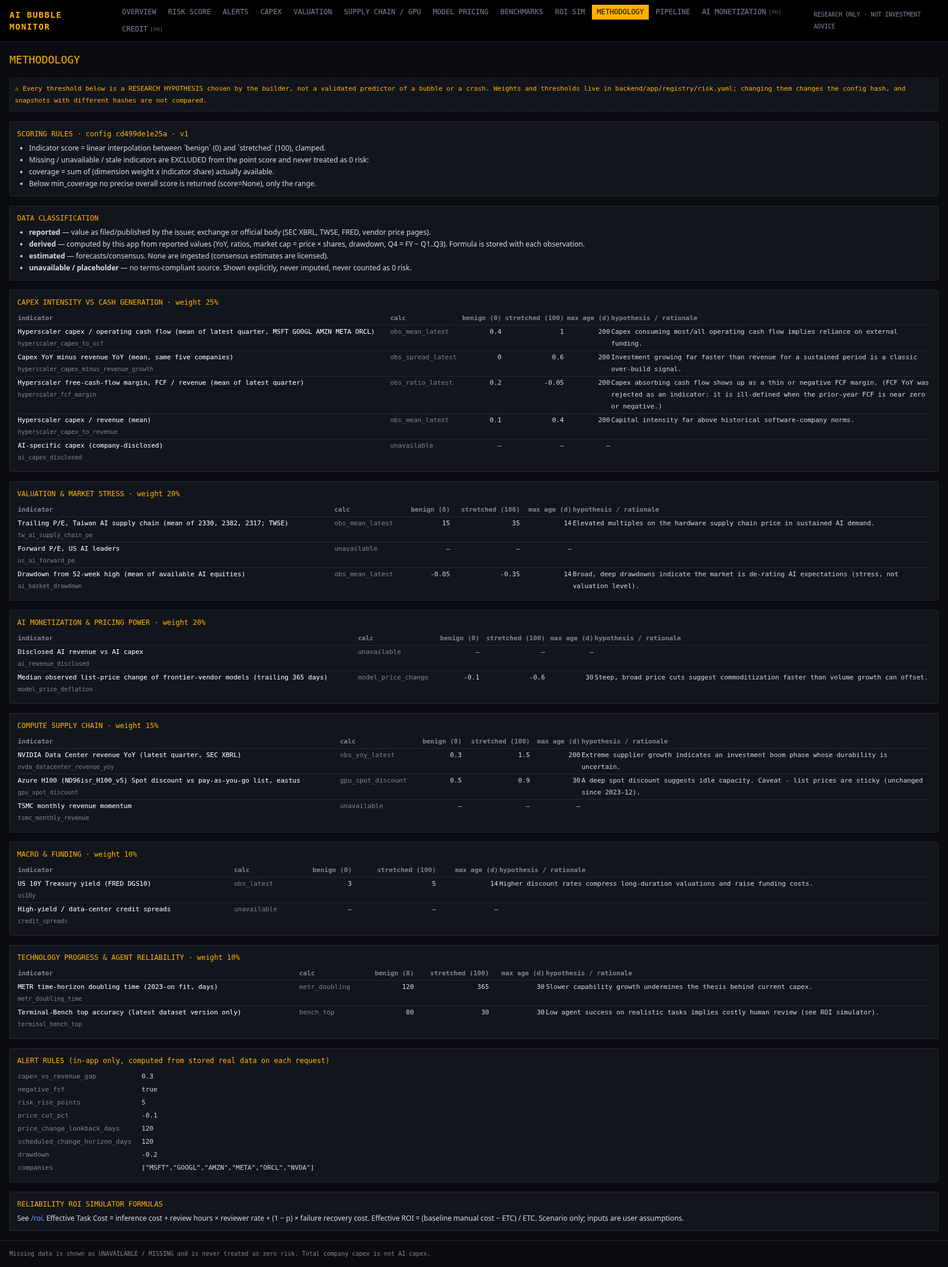
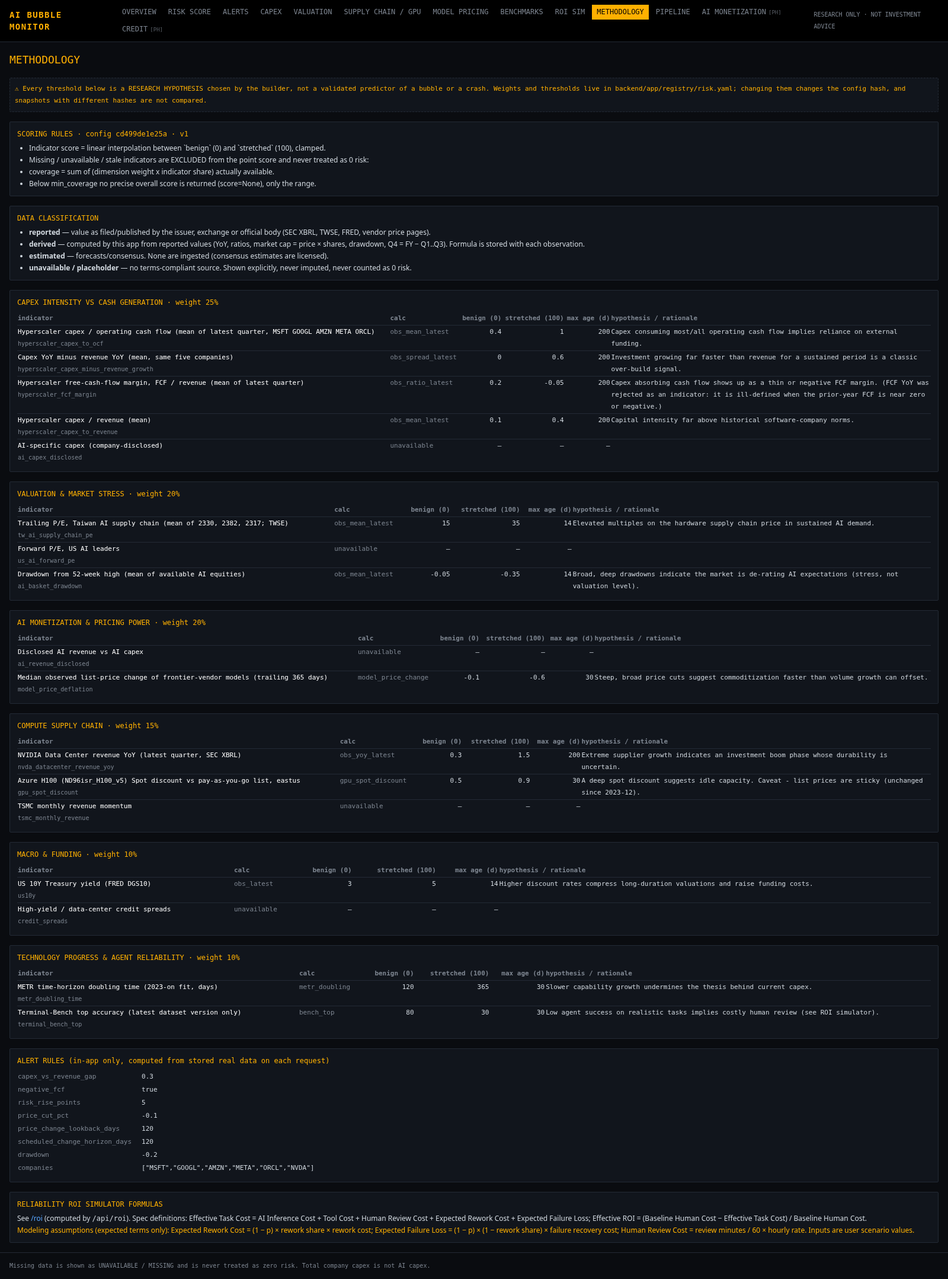
ROI simulator: use spec formulas exactly (ETC = inference+tool+review+expected rework+expected failure loss; ROI vs baseline), backend /api/roi, tests, page, docs, screenshot

diff --git a/frontend/app/roi/page.tsx b/frontend/app/roi/page.tsx
@@ -1,39 +1,56 @@
 "use client";
-import { useMemo, useState } from "react";
+import { useEffect, useState } from "react";
 import { Hypothesis, Panel } from "@/components/Panel";
-import { useApi } from "@/components/useApi";
-import { computeRoi, type In } from "@/lib/roi";
+import { ApiError, useApi } from "@/components/useApi";
 
+type In = { success_probability: number; review_minutes: number; reviewer_hourly_rate: number; inference_cost: number; tool_cost: number;
+  rework_cost: number; rework_share: number; failure_recovery_cost: number; baseline_human_cost: number; task_volume: number };
+type Out = { per_task: Record<string, number>; effective_roi: number | null; totals: Record<string, number>;
+  break_even_success_probability: number | null; break_even_note: string | null; formulas: Record<string, string>; assumptions: Record<string, string> };
 type Bench = { groups: { benchmark: string; benchmark_version: string; split: string; metric: string; rows: { model: string; value: number; result_date: string | null }[] }[] };
-const DEF: In = { p: 0.6, reviewMin: 15, rate: 60, inference: 0.5, recovery: 40, baseline: 50, volume: 1000 };
-const FIELDS: { k: keyof In; label: string; step: number; min: number; max?: number; unit: string }[] = [
-  { k: "p", label: "Success probability p (task fully correct without rework)", step: 0.01, min: 0, max: 1, unit: "0–1" },
-  { k: "reviewMin", label: "Human review time per task", step: 1, min: 0, unit: "minutes" },
-  { k: "rate", label: "Reviewer loaded hourly cost", step: 1, min: 0, unit: "USD/h" },
-  { k: "inference", label: "Inference cost per attempt", step: 0.01, min: 0, unit: "USD" },
-  { k: "recovery", label: "Failure recovery cost (when the agent fails)", step: 1, min: 0, unit: "USD" },
-  { k: "baseline", label: "Baseline manual cost per task (no agent)", step: 1, min: 0, unit: "USD" },
-  { k: "volume", label: "Task volume", step: 1, min: 0, unit: "tasks / period" },
+
+const DEF: In = { success_probability: 0.6, review_minutes: 15, reviewer_hourly_rate: 60, inference_cost: 0.5, tool_cost: 0.1,
+  rework_cost: 20, rework_share: 0.7, failure_recovery_cost: 40, baseline_human_cost: 30, task_volume: 1000 };
+const FIELDS: { k: keyof In; label: string; step: number; max?: number; unit: string }[] = [
+  { k: "success_probability", label: "Agent success probability p", step: 0.01, max: 1, unit: "0–1" },
+  { k: "review_minutes", label: "Human review time per task", step: 1, unit: "minutes" },
+  { k: "reviewer_hourly_rate", label: "Reviewer hourly rate", step: 1, unit: "USD/h" },
+  { k: "inference_cost", label: "AI inference cost per task", step: 0.01, unit: "USD" },
+  { k: "tool_cost", label: "Tool cost per task (APIs, sandboxes, search…)", step: 0.01, unit: "USD" },
+  { k: "rework_cost", label: "Rework cost (fixing a failed task)", step: 1, unit: "USD" },
+  { k: "rework_share", label: "Rework share s (failed tasks fixable by rework)", step: 0.01, max: 1, unit: "0–1" },
+  { k: "failure_recovery_cost", label: "Failure recovery cost / loss (unfixable failure)", step: 1, unit: "USD" },
+  { k: "baseline_human_cost", label: "Baseline manual execution cost per task", step: 1, unit: "USD" },
+  { k: "task_volume", label: "Task volume", step: 1, unit: "tasks / period" },
 ];
-const usd = (v: number) => `${v < 0 ? "-" : ""}$${Math.abs(v).toLocaleString(undefined, { maximumFractionDigits: 2 })}`;
+const usd = (v: number | undefined) => (v === undefined ? "—" : `${v < 0 ? "-" : ""}$${Math.abs(v).toLocaleString(undefined, { maximumFractionDigits: 2 })}`);
 
 export default function Roi() {
   const [x, setX] = useState<In>(DEF);
-  const r = useMemo(() => computeRoi(x), [x]);
+  const [q, setQ] = useState(new URLSearchParams(Object.entries(DEF).map(([k, v]) => [k, String(v)])).toString());
+  useEffect(() => { const t = setTimeout(() => setQ(new URLSearchParams(Object.entries(x).map(([k, v]) => [k, String(v)])).toString()), 150); return () => clearTimeout(t); }, [x]);
+  const { data: r, error } = useApi<Out>(`/api/roi?${q}`);
   const bench = useApi<Bench>("/api/benchmarks");
   const refs = (bench.data?.groups ?? []).filter((g) => g.metric.endsWith("pct") || g.metric.includes("accuracy") || g.metric.includes("resolved"))
     .map((g) => ({ g, top: g.rows[0] })).filter((t) => t.top).slice(0, 6);
+  const t = r?.per_task;
+  const be = r?.break_even_success_probability;
   return (
     <div className="space-y-4">
       <h1 className="font-mono text-term-amber text-lg">RELIABILITY ROI SCENARIO SIMULATOR</h1>
-      <Hypothesis>Scenario tool. All inputs are YOUR assumptions; nothing here is observed data. Formulas are stated below (the original spec text was not available in the repo, so they are documented assumptions).</Hypothesis>
+      <div className="panel p-3 font-mono text-[11px] space-y-1">
+        <div><span className="text-term-amber">Effective Task Cost</span> = AI Inference Cost + Tool Cost + Human Review Cost + Expected Rework Cost + Expected Failure Loss</div>
+        <div><span className="text-term-amber">Effective ROI</span> = (Baseline Human Cost − Effective Task Cost) / Baseline Human Cost</div>
+      </div>
+      <p className="text-[10px] text-term-muted font-mono">Scenario tool: every input is your own assumption, not observed data. Computed by the API (<code>/api/roi</code>).</p>
+      {error ? <ApiError error={error} /> : null}
       <div className="grid gap-3 lg:grid-cols-2">
         <Panel title="INPUTS (per task)">
           <div className="space-y-2">{FIELDS.map((f) => (
             <label key={f.k} className="flex items-center justify-between gap-3 text-xs">
               <span>{f.label} <span className="text-term-muted">[{f.unit}]</span></span>
-              <input type="number" step={f.step} min={f.min} max={f.max} value={x[f.k]}
-                onChange={(e) => { let v = parseFloat(e.target.value); if (Number.isNaN(v)) v = 0; if (f.max !== undefined) v = Math.min(v, f.max); setX({ ...x, [f.k]: Math.max(v, f.min) }); }}
+              <input type="number" step={f.step} min={0} max={f.max} value={x[f.k]}
+                onChange={(e) => { let v = parseFloat(e.target.value); if (Number.isNaN(v)) v = 0; if (f.max !== undefined) v = Math.min(v, f.max); setX({ ...x, [f.k]: Math.max(v, 0) }); }}
                 className="w-28 bg-black border border-term-border text-white px-1 py-0.5 font-mono text-right" />
             </label>))}
             <button className="btn" onClick={() => setX(DEF)}>reset example values</button>
@@ -41,28 +58,32 @@ export default function Roi() {
         </Panel>
         <Panel title="OUTPUTS">
           <div className="grid grid-cols-2 gap-3 font-mono">
-            <div><div className="label">Effective Task Cost (ETC)</div><div className="text-2xl text-white">{usd(r.etc)}</div></div>
-            <div><div className="label">Effective ROI</div><div className={`text-2xl ${r.roi === null ? "" : r.roi >= 0 ? "text-term-up" : "text-term-down"}`}>{r.roi === null ? "n/a" : `${(r.roi * 100).toFixed(1)}%`}</div></div>
-            <div><div className="label">review cost / task</div>{usd(r.review)}</div>
-            <div><div className="label">expected failure cost / task</div>{usd(r.failure)}</div>
-            <div><div className="label">total ETC × volume</div>{usd(r.totalEtc)}</div>
-            <div><div className="label">total baseline × volume</div>{usd(r.totalBaseline)}</div>
-            <div><div className="label">net savings × volume</div><span className={r.savings >= 0 ? "text-term-up" : "text-term-down"}>{usd(r.savings)}</span></div>
-            <div><div className="label">break-even success probability</div>{r.breakEvenP === null ? "n/a" : r.breakEvenP <= 0 ? "≤0 (profitable even at p=0)" : r.breakEvenP > 1 ? "> 1 (never breaks even)" : r.breakEvenP.toFixed(3)}</div>
+            <div><div className="label">Effective Task Cost</div><div className="text-2xl text-white">{usd(t?.effective_task_cost)}</div></div>
+            <div><div className="label">Effective ROI</div><div className={`text-2xl ${r?.effective_roi == null ? "" : r.effective_roi >= 0 ? "text-term-up" : "text-term-down"}`}>{r == null ? "—" : r.effective_roi === null ? "n/a (baseline = 0)" : `${(r.effective_roi * 100).toFixed(1)}%`}</div></div>
           </div>
-          <div className="mt-3 text-[11px] font-mono text-term-muted space-y-1">
-            <p>ETC = inference + (review_min / 60) × reviewer_rate + (1 − p) × failure_recovery</p>
-            <p>Effective ROI = (baseline_manual − ETC) / ETC</p>
-            <p>Totals = per-task value × task volume. Break-even p solves ETC = baseline.</p>
-          </div>
+          <table className="w-full text-[11px] font-mono mt-3"><tbody>
+            {[["AI inference cost", "ai_inference_cost"], ["Tool cost", "tool_cost"], ["Human review cost", "human_review_cost"], ["Expected rework cost *", "expected_rework_cost"], ["Expected failure loss *", "expected_failure_loss"]].map(([l, k]) => (
+              <tr key={k} className="border-t border-term-border"><td>{l}</td><td className="text-right">{usd(t?.[k])}</td></tr>))}
+            <tr className="border-t border-term-border text-white"><td>= Effective Task Cost</td><td className="text-right">{usd(t?.effective_task_cost)}</td></tr>
+            <tr className="border-t border-term-border"><td>Baseline human cost</td><td className="text-right">{usd(t?.baseline_human_cost)}</td></tr>
+            <tr className="border-t border-term-border"><td>Total ETC × volume</td><td className="text-right">{usd(r?.totals.effective_task_cost)}</td></tr>
+            <tr className="border-t border-term-border"><td>Total baseline × volume</td><td className="text-right">{usd(r?.totals.baseline_human_cost)}</td></tr>
+            <tr className="border-t border-term-border"><td>Net savings × volume</td><td className={`text-right ${(r?.totals.net_savings ?? 0) >= 0 ? "text-term-up" : "text-term-down"}`}>{usd(r?.totals.net_savings)}</td></tr>
+            <tr className="border-t border-term-border text-white"><td>Break-even success probability (ROI = 0)</td>
+              <td className="text-right">{be != null && be > 0 && be <= 1 ? be.toFixed(3) : r?.break_even_note ?? "—"}</td></tr>
+          </tbody></table>
         </Panel>
       </div>
+      <Hypothesis>* Modeling assumptions (how the two expected terms are computed; the ETC and ROI definitions above are the spec):
+        Expected Rework Cost = (1 − p) × s × rework cost; Expected Failure Loss = (1 − p) × (1 − s) × failure recovery cost.
+        Each failed task is either reworked (share s) or becomes a failure loss (share 1 − s), never both. Human Review Cost = review minutes / 60 × hourly rate, applied to every task.
+        Break-even p solves Effective Task Cost = Baseline Human Cost.</Hypothesis>
       <Panel title="REFERENCE ONLY — PUBLIC BENCHMARK TOP SCORES (not your task's success probability)">
         <p className="text-[10px] text-term-muted mb-1">Benchmark pass rates come from specific task sets and harnesses; they do not transfer to your workload. Clicking sets p for a what-if only.</p>
         <table className="w-full text-[11px] font-mono"><tbody>{refs.map(({ g, top }) => (
           <tr key={`${g.benchmark}${g.split}${g.metric}`} className="border-t border-term-border">
             <td>{g.benchmark} · {g.benchmark_version}{g.split !== "-" ? ` · ${g.split}` : ""}</td><td className="text-white">{top.model}</td><td className="text-right">{top.value.toFixed(1)}%</td><td className="text-term-muted">{top.result_date}</td>
-            <td><button className="btn" onClick={() => setX({ ...x, p: Math.round(top.value) / 100 })}>use as p</button></td></tr>))}</tbody></table>
+            <td><button className="btn" onClick={() => setX({ ...x, success_probability: Math.round(top.value) / 100 })}>use as p</button></td></tr>))}</tbody></table>
       </Panel>
     </div>
   );

diff --git a/frontend/app/methodology/page.tsx b/frontend/app/methodology/page.tsx
@@ -46,7 +46,8 @@ export default function Methodology() {
           <table className="text-[11px] font-mono">{Object.entries(c?.alerts ?? {}).map(([k, v]) => <tr key={k}><td className="pr-4 text-term-muted">{k}</td><td>{JSON.stringify(v)}</td></tr>)}</table>
         </Panel>
         <Panel title="RELIABILITY ROI SIMULATOR FORMULAS">
-          <p className="text-xs">See <a className="src" href="/roi">/roi</a>. Effective Task Cost = inference cost + review hours × reviewer rate + (1 − p) × failure recovery cost. Effective ROI = (baseline manual cost − ETC) / ETC. Scenario only; inputs are user assumptions.</p>
+          <p className="text-xs">See <a className="src" href="/roi">/roi</a> (computed by <code>/api/roi</code>). Spec definitions: Effective Task Cost = AI Inference Cost + Tool Cost + Human Review Cost + Expected Rework Cost + Expected Failure Loss; Effective ROI = (Baseline Human Cost − Effective Task Cost) / Baseline Human Cost.</p>
+          <p className="text-xs text-term-amber mt-1">Modeling assumptions (expected terms only): Expected Rework Cost = (1 − p) × rework share × rework cost; Expected Failure Loss = (1 − p) × (1 − rework share) × failure recovery cost; Human Review Cost = review minutes / 60 × hourly rate. Inputs are user scenario values.</p>
         </Panel>
       </>) : null}
     </div>

diff --git a/backend/app/services/roi.py b/backend/app/services/roi.py
@@ -1,0 +1,90 @@
+"""Reliability ROI scenario calculator.
+
+Definitions from the project spec (used exactly):
+
+    Effective Task Cost = AI Inference Cost + Tool Cost + Human Review Cost
+                          + Expected Rework Cost + Expected Failure Loss
+    Effective ROI       = (Baseline Human Cost - Effective Task Cost) / Baseline Human Cost
+
+Modeling assumptions (how the two expected terms are computed; NOT part of the spec):
+
+    p  = agent success probability (task correct after the normal human review)
+    s  = rework share: fraction of failed tasks that can be fixed by rework
+    Human Review Cost     = review_minutes / 60 * reviewer_hourly_rate        (every task is reviewed)
+    Expected Rework Cost  = (1 - p) * s       * rework_cost                   (failure caught & fixed)
+    Expected Failure Loss = (1 - p) * (1 - s) * failure_recovery_cost         (failure not fixable by rework;
+                                                                               recovery / loss incurred)
+Each failed task is either reworked or a loss, never both, so the two terms do not double count.
+All per-task values; totals multiply by task volume.
+"""
+from __future__ import annotations
+
+from dataclasses import asdict, dataclass
+
+SPEC_FORMULAS = {
+    "effective_task_cost": "AI Inference Cost + Tool Cost + Human Review Cost + Expected Rework Cost + Expected Failure Loss",
+    "effective_roi": "(Baseline Human Cost - Effective Task Cost) / Baseline Human Cost",
+}
+ASSUMPTIONS = {
+    "human_review_cost": "review_minutes / 60 x reviewer_hourly_rate (applied to every task)",
+    "expected_rework_cost": "(1 - success_probability) x rework_share x rework_cost",
+    "expected_failure_loss": "(1 - success_probability) x (1 - rework_share) x failure_recovery_cost",
+    "rework_share": "fraction of failed tasks fixable by rework; the rest become failure losses (no double counting)",
+    "break_even_success_probability": "p at which Effective Task Cost = Baseline Human Cost (Effective ROI = 0)",
+}
+
+
+@dataclass(frozen=True)
+class RoiInputs:
+    success_probability: float = 0.6
+    review_minutes: float = 15.0
+    reviewer_hourly_rate: float = 60.0
+    inference_cost: float = 0.5
+    tool_cost: float = 0.1
+    rework_cost: float = 20.0
+    rework_share: float = 0.7
+    failure_recovery_cost: float = 40.0
+    baseline_human_cost: float = 30.0
+    task_volume: float = 1000.0
+
+    def validate(self) -> None:
+        for k in ("success_probability", "rework_share"):
+            v = getattr(self, k)
+            if not 0.0 <= v <= 1.0:
+                raise ValueError(f"{k} must be between 0 and 1")
+        for k, v in asdict(self).items():
+            if v < 0:
+                raise ValueError(f"{k} must be >= 0")
+
+
+def compute(x: RoiInputs) -> dict:
+    x.validate()
+    p, s = x.success_probability, x.rework_share
+    review = x.review_minutes / 60.0 * x.reviewer_hourly_rate
+    rework = (1 - p) * s * x.rework_cost
+    failure = (1 - p) * (1 - s) * x.failure_recovery_cost
+    etc = x.inference_cost + x.tool_cost + review + rework + failure
+    b = x.baseline_human_cost
+    roi = (b - etc) / b if b > 0 else None
+    # ETC(p) = fixed + (1 - p) * k  ->  break-even p* = 1 - (B - fixed) / k
+    fixed = x.inference_cost + x.tool_cost + review
+    k = s * x.rework_cost + (1 - s) * x.failure_recovery_cost
+    if k > 0:
+        be = 1 - (b - fixed) / k
+        be_note = "always profitable (even at p=0)" if be <= 0 else "never breaks even (even at p=1)" if be > 1 else None
+    else:
+        be = None
+        be_note = "failure costs are zero: ROI does not depend on p" + ("" if b > fixed else " (and never breaks even)")
+    return {
+        "inputs": asdict(x),
+        "per_task": {"ai_inference_cost": x.inference_cost, "tool_cost": x.tool_cost, "human_review_cost": review,
+                     "expected_rework_cost": rework, "expected_failure_loss": failure,
+                     "effective_task_cost": etc, "baseline_human_cost": b},
+        "effective_roi": roi,
+        "totals": {"effective_task_cost": etc * x.task_volume, "baseline_human_cost": b * x.task_volume,
+                   "net_savings": (b - etc) * x.task_volume},
+        "break_even_success_probability": be,
+        "break_even_note": be_note,
+        "formulas": SPEC_FORMULAS,
+        "assumptions": ASSUMPTIONS,
+    }

diff --git a/backend/tests/test_phase2_roi.py b/backend/tests/test_phase2_roi.py
@@ -1,0 +1,52 @@
+import pytest
+from fastapi.testclient import TestClient
+
+from app.services.roi import RoiInputs, compute
+
+
+def test_spec_formulas_exact():
+    x = RoiInputs(success_probability=0.6, review_minutes=15, reviewer_hourly_rate=60, inference_cost=0.5,
+                  tool_cost=0.1, rework_cost=20, rework_share=0.7, failure_recovery_cost=40,
+                  baseline_human_cost=50, task_volume=1000)
+    r = compute(x)
+    t = r["per_task"]
+    assert t["human_review_cost"] == pytest.approx(15.0)
+    assert t["expected_rework_cost"] == pytest.approx(0.4 * 0.7 * 20)        # 5.6
+    assert t["expected_failure_loss"] == pytest.approx(0.4 * 0.3 * 40)       # 4.8
+    etc = 0.5 + 0.1 + 15 + 5.6 + 4.8
+    assert t["effective_task_cost"] == pytest.approx(etc)                    # sum of the five spec terms
+    assert r["effective_roi"] == pytest.approx((50 - etc) / 50)              # divided by BASELINE, per spec
+    assert r["totals"]["effective_task_cost"] == pytest.approx(etc * 1000)
+    assert r["totals"]["net_savings"] == pytest.approx((50 - etc) * 1000)
+
+
+def test_break_even_gives_zero_roi():
+    x = RoiInputs(baseline_human_cost=30)
+    be = compute(x)["break_even_success_probability"]
+    assert be == pytest.approx(1 - (30 - 15.6) / (0.7 * 20 + 0.3 * 40))
+    r = compute(RoiInputs(baseline_human_cost=30, success_probability=be))
+    assert r["effective_roi"] == pytest.approx(0, abs=1e-12)
+    assert r["per_task"]["effective_task_cost"] == pytest.approx(x.baseline_human_cost)
+
+
+def test_edge_cases():
+    assert compute(RoiInputs(baseline_human_cost=0))["effective_roi"] is None
+    r = compute(RoiInputs(rework_cost=0, failure_recovery_cost=0))
+    assert r["break_even_success_probability"] is None and "does not depend on p" in r["break_even_note"]
+    assert compute(RoiInputs(baseline_human_cost=1000))["break_even_note"].startswith("always profitable")
+    with pytest.raises(ValueError):
+        compute(RoiInputs(success_probability=1.2))
+    with pytest.raises(ValueError):
+        compute(RoiInputs(tool_cost=-1))
+
+
+def test_roi_api():
+    from app.main import app
+    c = TestClient(app)  # no lifespan needed: pure calculation
+    r = c.get("/api/roi", params={"success_probability": 1, "tool_cost": 0.4})
+    assert r.status_code == 200
+    j = r.json()
+    assert j["per_task"]["expected_rework_cost"] == 0 and j["per_task"]["expected_failure_loss"] == 0
+    assert j["per_task"]["effective_task_cost"] == pytest.approx(0.5 + 0.4 + 15)
+    assert j["formulas"]["effective_roi"] == "(Baseline Human Cost - Effective Task Cost) / Baseline Human Cost"
+    assert c.get("/api/roi", params={"rework_share": 2}).status_code == 422

diff --git a/backend/app/api/roi_routes.py b/backend/app/api/roi_routes.py
@@ -1,0 +1,30 @@
+"""Reliability ROI scenario calculator endpoint (pure calculation, no stored data)."""
+from __future__ import annotations
+
+from fastapi import APIRouter, HTTPException, Query
+
+from ..services.roi import RoiInputs, compute
+
+router = APIRouter(prefix="/api")
+D = RoiInputs()
+
+
+@router.get("/roi")
+def roi(
+    success_probability: float = Query(D.success_probability, ge=0, le=1),
+    review_minutes: float = Query(D.review_minutes, ge=0),
+    reviewer_hourly_rate: float = Query(D.reviewer_hourly_rate, ge=0),
+    inference_cost: float = Query(D.inference_cost, ge=0),
+    tool_cost: float = Query(D.tool_cost, ge=0),
+    rework_cost: float = Query(D.rework_cost, ge=0),
+    rework_share: float = Query(D.rework_share, ge=0, le=1),
+    failure_recovery_cost: float = Query(D.failure_recovery_cost, ge=0),
+    baseline_human_cost: float = Query(D.baseline_human_cost, ge=0),
+    task_volume: float = Query(D.task_volume, ge=0),
+):
+    """Effective Task Cost / Effective ROI per the spec. Scenario only: all inputs are user assumptions."""
+    params = dict(locals())
+    try:
+        return compute(RoiInputs(**params))
+    except ValueError as e:
+        raise HTTPException(422, str(e)) from e

diff --git a/backend/app/main.py b/backend/app/main.py
@@ -12,6 +12,7 @@ from .logging_setup import configure_logging, get_logger
 from .registry.registry import sync_registry
 from .api.datasets_routes import router as datasets_router
 from .api.risk_routes import router as risk_router
+from .api.roi_routes import router as roi_router
 from .scheduler import start_scheduler
 
 settings = get_settings()
@@ -41,3 +42,4 @@ app.add_middleware(CORSMiddleware, allow_origins=settings.cors_origin_list, allo
 app.include_router(router)
 app.include_router(datasets_router)
 app.include_router(risk_router)
+app.include_router(roi_router)

diff --git a/README.md b/README.md
@@ -99,6 +99,7 @@ SQLite lives on the `aibm-data` volume. For Postgres, set `DATABASE_URL=postgres
 | GET / POST | `/api/risk`, `/api/risk/history`, `/api/risk/snapshot` | live risk evaluation, stored snapshots |
 | GET | `/api/methodology` | risk config (weights, thresholds, rationale), rules, config hash |
 | GET | `/api/alerts` | alerts computed from stored real data |
+| GET | `/api/roi` | ROI scenario calculator (spec formulas; see below) |
 
 ## Frontend pages
 
@@ -122,14 +123,25 @@ macro/funding 10, technology/reliability 10. Each indicator maps linearly from a
 widen the range (0 for the low bound, 100 for the high bound) — missing data never counts as zero risk. If weighted coverage is
 below `min_coverage` (0.5) the overall score is withheld and only the range is shown. Every snapshot stores the config hash.
 
-## ROI simulator formulas (documented assumptions)
+## ROI simulator (`/roi`, `GET /api/roi`)
 
+Definitions from the project spec, implemented exactly in `backend/app/services/roi.py`:
 ```
-ETC (Effective Task Cost) = inference_cost + (review_minutes / 60) × reviewer_rate + (1 − p_success) × failure_recovery_cost
-Effective ROI             = (baseline_manual_cost − ETC) / ETC
-Totals                    = per-task values × task volume;  break-even p solves ETC = baseline
+Effective Task Cost = AI Inference Cost + Tool Cost + Human Review Cost + Expected Rework Cost + Expected Failure Loss
+Effective ROI       = (Baseline Human Cost - Effective Task Cost) / Baseline Human Cost
 ```
-The original spec text for these formulas was not in the repo, so they are written out here and on the page. Benchmark scores are shown only as references, not as your task's success probability.
+Inputs (query params of `/api/roi`): `success_probability` p, `review_minutes`, `reviewer_hourly_rate`, `inference_cost`,
+`tool_cost`, `rework_cost`, `rework_share` s, `failure_recovery_cost`, `baseline_human_cost`, `task_volume`.
+
+**Modeling assumptions** (how the terms are computed; not part of the spec definitions):
+```
+Human Review Cost     = review_minutes / 60 x reviewer_hourly_rate        (every task is reviewed)
+Expected Rework Cost  = (1 - p) x s       x rework_cost                   (failed task fixed by rework)
+Expected Failure Loss = (1 - p) x (1 - s) x failure_recovery_cost         (failure not fixable by rework)
+```
+A failed task is either reworked or a loss, never both. Totals = per-task values x task volume. Break-even success
+probability = p where Effective Task Cost = Baseline Human Cost (ROI = 0): `p* = 1 - (B - inference - tool - review) / (s x rework + (1 - s) x recovery)`;
+the API reports "always profitable" / "never breaks even" when p* falls outside [0, 1]. Benchmark scores on the page are references only.
 
 ## How to add a new metric
 
@@ -187,7 +199,7 @@ backend/
     datasets/              pricing.py, benchmarks.py, gpu.py, runner.py (append-only dataset tables)
     registry/risk.yaml     risk weights, thresholds (hypotheses), alert rules
     registry/              metrics.yaml, entities.yaml, loader/sync
-    services/              periods.py (YTD→quarter, vintages), derive.py, ingest.py, queries.py, risk.py, alerts.py
+    services/              periods.py (YTD→quarter, vintages), derive.py, ingest.py, queries.py, risk.py, alerts.py, roi.py
     models.py db.py config.py scheduler.py cli.py main.py
   alembic/                 migrations
   tests/                   pytest + recorded EDGAR fixtures

diff --git a/docs/DATA_SOURCES.md b/docs/DATA_SOURCES.md
@@ -75,3 +75,7 @@ Datasets are append-only: unchanged values only bump `last_seen_at`; a changed p
 5. **FRED has no vintage history here.** `publication_date` for DGS10 ≈ observation date (ALFRED not used).
 6. **Fiscal calendars differ.** MSFT FY ends June, ORCL May, NVDA late January; the others are calendar years. Cross-company sums (`capex_total_big4_cal`) use only MSFT/GOOGL/AMZN/META with identical calendar quarter-ends.
 7. **Missing data is never zero risk.** Unavailable or missing series are shown explicitly as UNAVAILABLE / MISSING / NO DATA and are never zero-filled.
+
+## ROI simulator
+
+`/roi` and `GET /api/roi` use **no external data**: every input is a user scenario value. Formulas and the modeling assumptions for Expected Rework Cost / Expected Failure Loss are in the README ("ROI simulator"). Benchmark top scores appear on the page only as labeled references.
